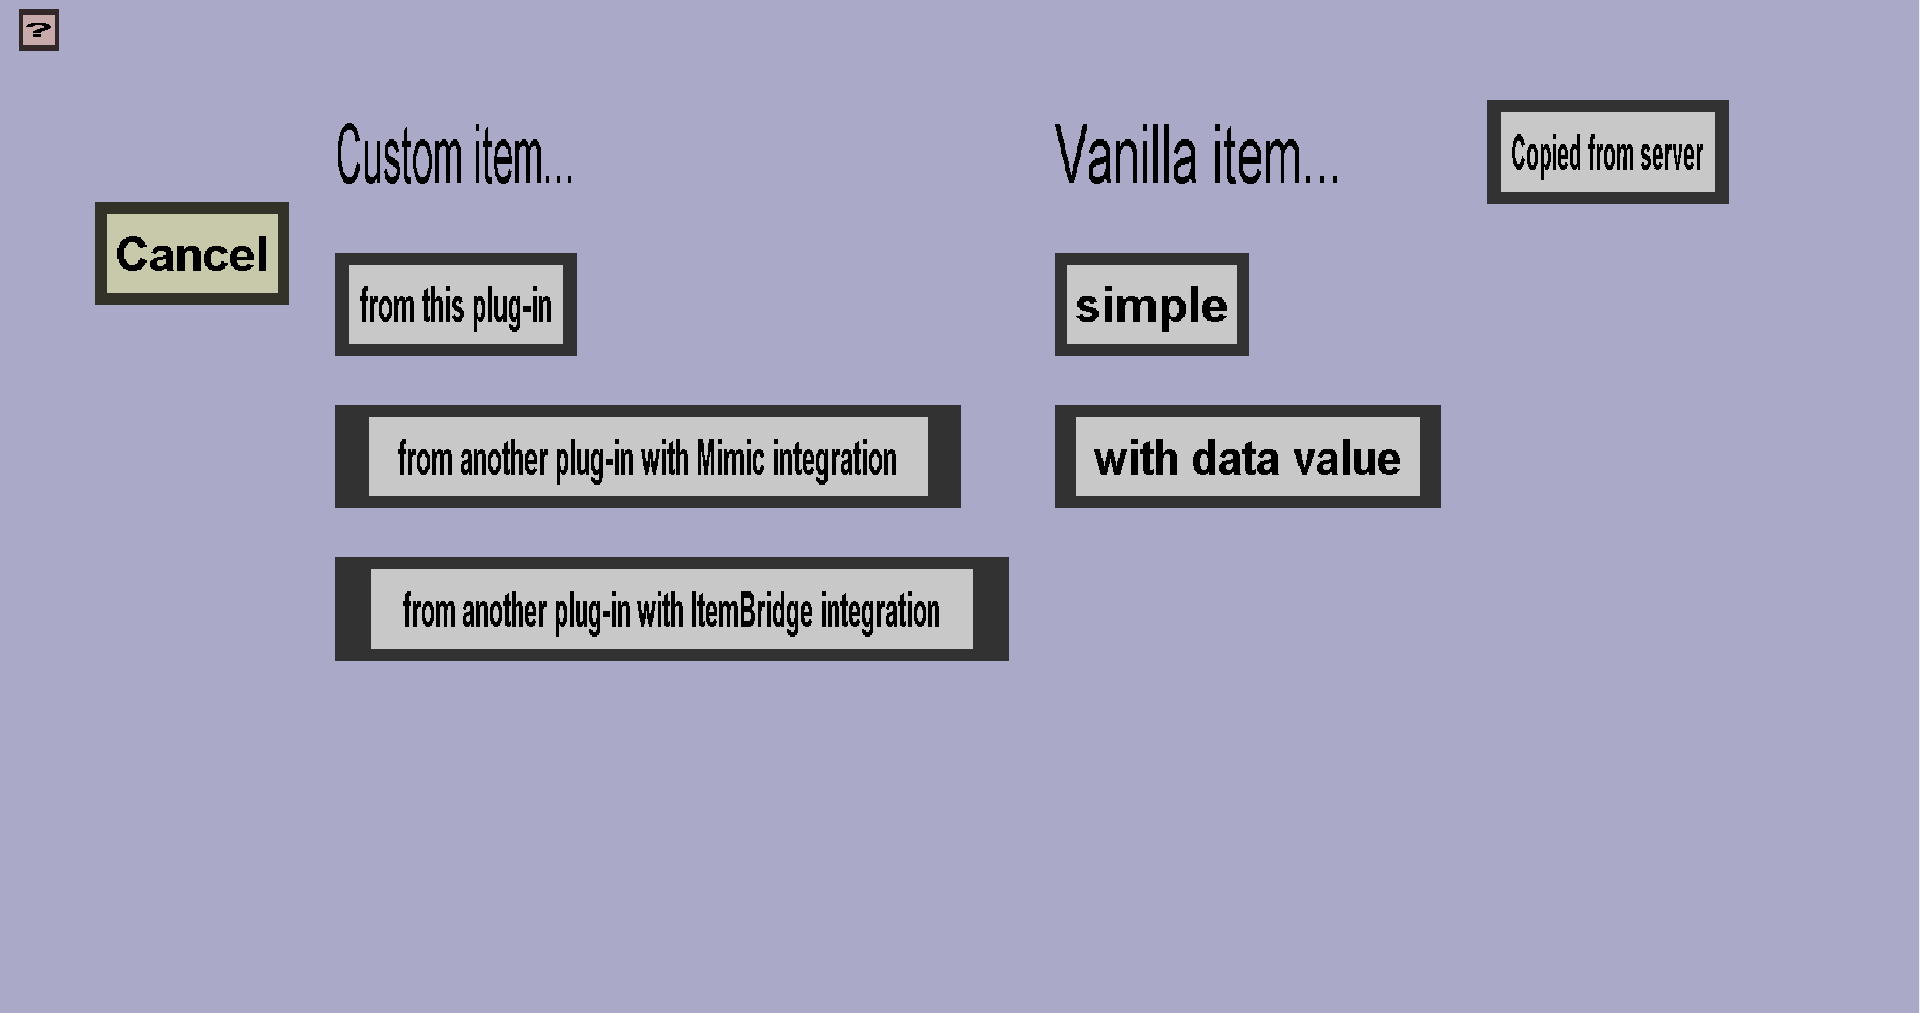
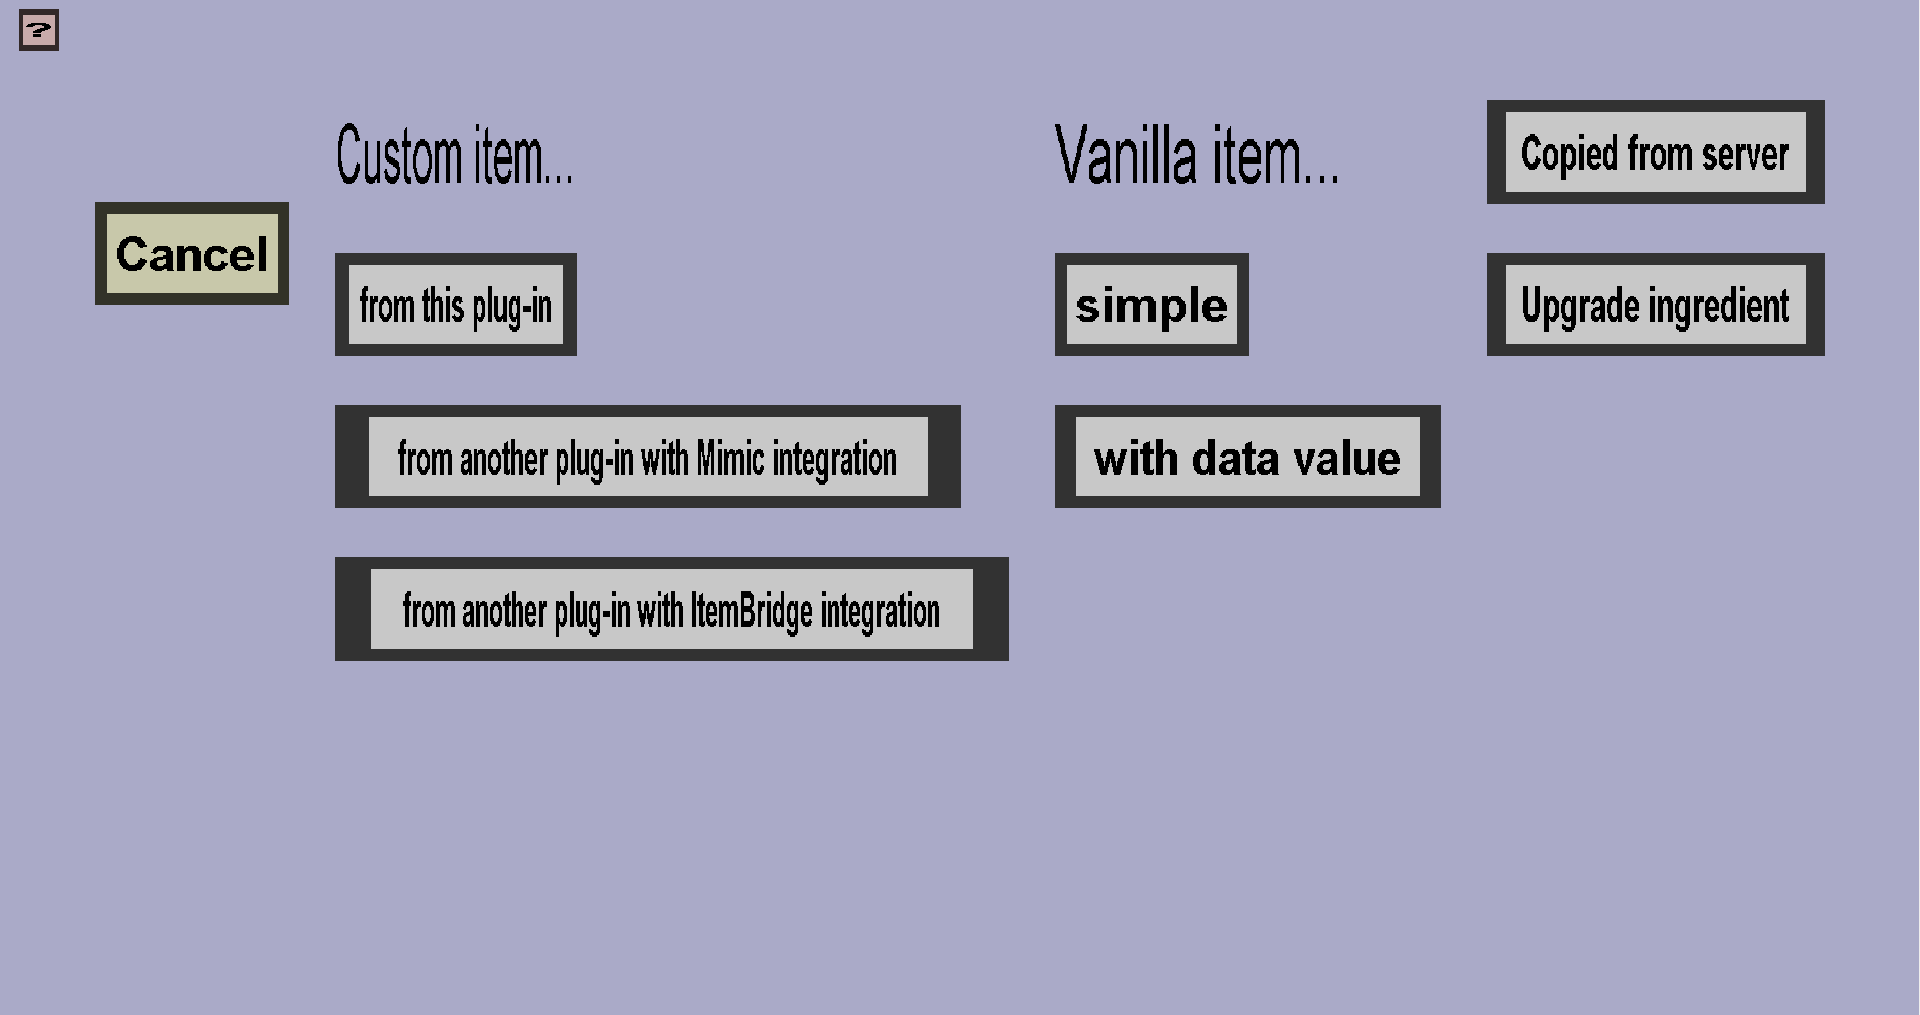
Document the custom upgrades of custom items 12

diff --git a/custom items/editor documentation/edit menu/recipes/upgrades/result.html b/custom items/editor documentation/edit menu/recipes/upgrades/result.html
@@ -1,0 +1,49 @@
+<!DOCTYPE html>
+<html>
+    <head>
+        <meta charset="UTF-8" />
+        <title>Upgrade result menu</title>
+    </head>
+    <body>
+        <p>
+            The upgrade result menu can be used to create or edit <i>upgrade results</i>. Upgrade results can add 0 or
+            more <a href="overview.html">upgrades</a> to an ingredient of the recipe. Furthermore, upgrade results can
+            optionally repair the item, remove previous enchantments/upgrades, or turn the ingredient into something else.
+            The upgrade result menu should look like this:
+        </p>
+        <img src="result.png" width="50%" />
+        <h3>Upgrades (optional)</h3>
+        <p>
+            Click the <b>Upgrades...</b> button to choose which <a href="overview.html">upgrades</a> should be added to
+            the ingredient. You can choose 0 or more upgrades.
+        </p>
+        <h3>Repair (optional)</h3>
+        <p>
+            How much the ingredient should be repaired when it is upgraded. Use a positive percentage to repair the item,
+            use a negative percentage to damage the ingredient, and use 0 to keep the durability the same. This is ignored
+            for unbreakable items (and simple items that don't have durability).
+        </p>
+        <h3>New type (optional)</h3>
+        <p>
+            The new item type of the ingredient. You can use this to turn the ingredient into a different item, while
+            keeping properties like enchantments or durability. By default, the new type is <b>null</b>, which will
+            cause the ingredient to keep its own item type.
+        </p>
+        <h3>Keep old upgrades</h3>
+        <p>
+            Whether the ingredient should keep its existing upgrades. If you uncheck this, the ingredient will lose all of
+            its previous upgrades (including enchantments). This can be useful if you want some 'exclusive' upgrades.
+        </p>
+        <h3>Keep old enchantments</h3>
+        <p>
+            Whether the ingredient should keep its <b>non-KCI</b> enchantments (the enchantments that were for instance
+            added by an enchanting table). If you uncheck this, the ingredient will only keep the enchantments given by
+            previous upgrades (if <i>Keep old enchantments</i> is still checked) and the <i>default enchantments</i>
+            (only applicable to custom items).
+        </p>
+        <h3>Choose ingredient (required)</h3>
+        <p>
+            Click the <i>Choose ingredient...</i> to choose which ingredient should be upgraded.
+        </p>
+    </body>
+</html>

diff --git a/custom items/editor documentation/edit menu/recipes/upgrades/edit.html b/custom items/editor documentation/edit menu/recipes/upgrades/edit.html
@@ -1,0 +1,44 @@
+<!DOCTYPE html>
+<html>
+    <head>
+        <meta charset="UTF-8" />
+        <title>Upgrade edit menu</title>
+    </head>
+    <body>
+        <p>
+            The upgrade edit menu can be used to create or edit an <i>upgrade</i>. See <a href="overview.html">this page</a>
+            for general information about upgrades. This page will give more in-depth information. The upgrade edit
+            menu should look like this:
+        </p>
+        <img src="edit.png" width="50%" />
+        <h3>Name</h3>
+        <p>
+            The name of the upgrade. This name doesn't serve any in-game purpose: it just makes it easier to distinguish
+            upgrades from each other.
+        </p>
+        <h3>Enchantments</h3>
+        <p>
+            The enchantments that will be added to the upgraded item. If the item already has an enchantment, its level
+            will be increased by the corresponding upgrade enchantment level.
+        </p>
+        <h3>Attribute modifiers</h3>
+        <p>
+            The attribute modifiers that will be added to the upgraded item. They will be merged with existing attribute
+            modifiers.
+        </p>
+        <h3>Damage resistances (only for armor)</h3>
+        <p>
+            The damage resistances that will be added to the upgraded item. Damage resistances can reduce incoming damage
+            from specific damage sources. They will be stacked on top of existing damage resistances. For instance, if an
+            item has 2 upgrades that both add 50% fall damage reduction, equipping that item will make players immune to
+            falling damage.
+        </p>
+        <h3>Variables</h3>
+        <p>
+            Variables can be referenced by <a href="../constraints/edit.html">ingredient constraints</a>. For instance,
+            you can use variables to prevent items from getting upgrades more than once or to require items to get
+            another upgrade first. Each variable upgrade entry will increase the value of the given variable by the
+            given amount.
+        </p>
+    </body>
+</html>

diff --git a/custom items/editor documentation/edit menu/recipes/upgrades/overview.html b/custom items/editor documentation/edit menu/recipes/upgrades/overview.html
@@ -1,0 +1,29 @@
+<!DOCTYPE html>
+<html>
+    <head>
+        <meta charset="UTF-8" />
+        <title>Upgrade overview</title>
+    </head>
+    <body>
+        <p>
+            The upgrade overview can be used to view, create, and edit <i>upgrades</i>. Upgrades can be used in
+            custom crafting recipes or container recipes to <i>upgrade</i> (improve) one of the ingredients. Upgrades
+            can consist of enchantments, attribute modifiers, damage resistances, and variables. Check 
+            <a href="edit.html">this page</a> for details. 
+        </p>
+        <p>
+            For instance, you could create an upgrade that adds the feather falling enchantment and create a crafting 
+            recipe that turns leather boots and 8 feathers into leather boots with the feather falling enchantment.
+            Note that upgrade recipes consist of 2 parts:
+        </p>
+        <ul>
+            <li>The upgrades, which define the enchantments, attribute modifiers, etc...</li>
+            <li>The upgrade recipes, which define which items can be upgraded, and at which cost</li>
+        </ul>
+        <p>
+            This overview, the upgrade overview, only deals with <i>The upgrades</i>, and <b>not</b> with the
+            <i>recipes</i>. If you have a single upgrade called sharpness2, it should look like this:
+        </p>
+        <img src="overview.png" width="50%" />
+    </body>
+</html>

diff --git a/custom items/editor documentation/edit menu/recipes/choose result.html b/custom items/editor documentation/edit menu/recipes/choose result.html
@@ -40,6 +40,11 @@
                 An item that is copied from your server. This type of result allows you to copy <i>any item stack</i>
                 from your server and use that as result. Click the corresponding button for more information.
             </li>
+            <li>
+                An upgraded ingredient. This can be used to add <a href="upgrades/overview.html">upgrades</a> to an
+                ingredient (the upgraded version of the ingredient will be the result). This is only applicable to
+                crafting recipes and container recipes.
+            </li>
         </ul>
     </body>
 </html>

diff --git a/custom items/editor documentation/edit menu/recipes/overview.html b/custom items/editor documentation/edit menu/recipes/overview.html
@@ -39,5 +39,10 @@
             In the case of copy, clicking the create/apply button will create a new entry with the modified recipe.
             In the case of edit, clicking the create/apply button will replace the recipe of that entry with the modified recipe.
         </p>
+        <h4>Upgrades...</h4>
+        <p>
+            <i>Upgrades</i> can be used to create complicated crafting recipes. Clicking this button will take you to the
+            <a href="upgrades/overview.html">upgrade overview</a>. More information can be found if you follow that link.
+        </p>
     </body>
 </html>
